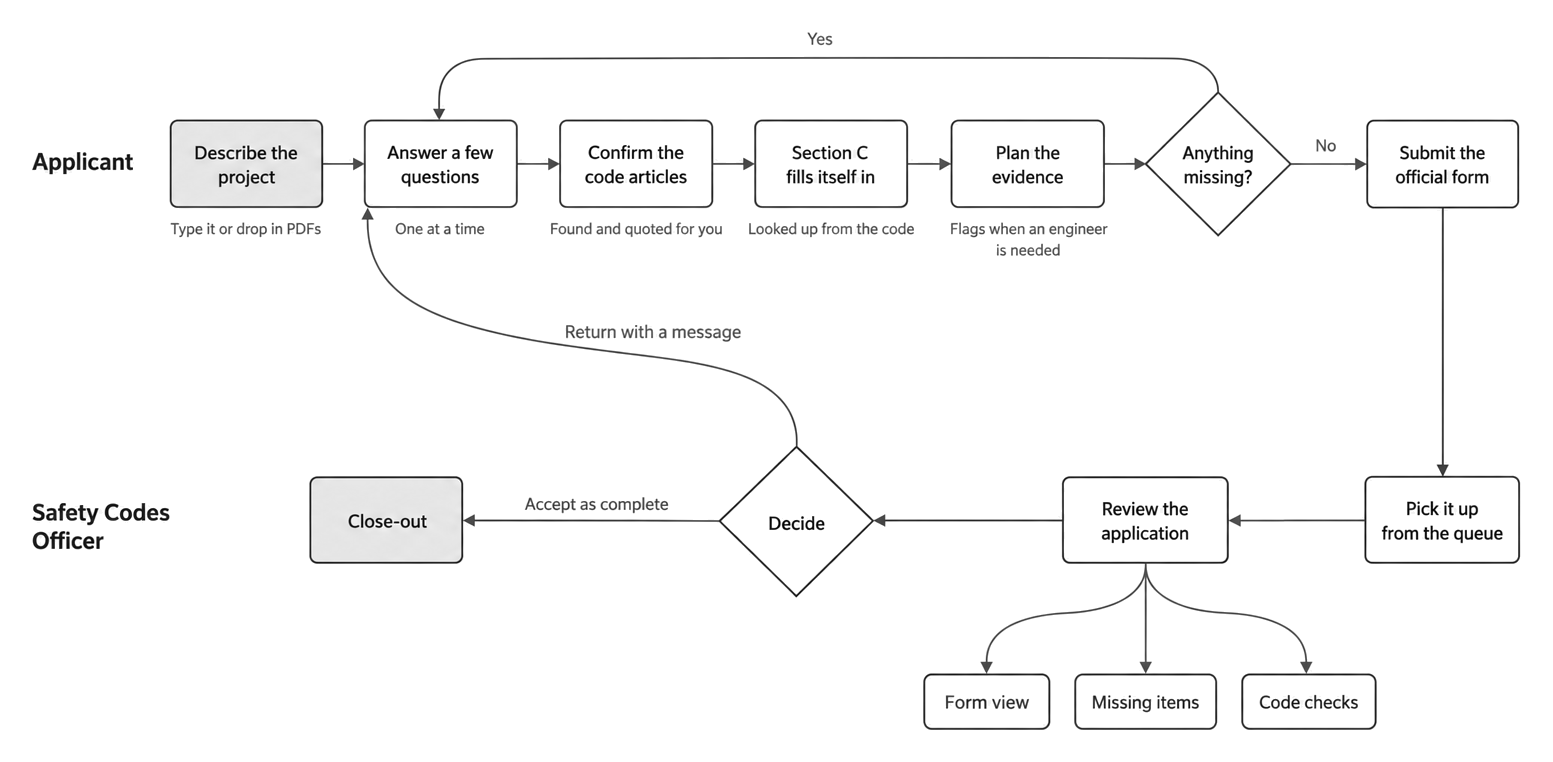
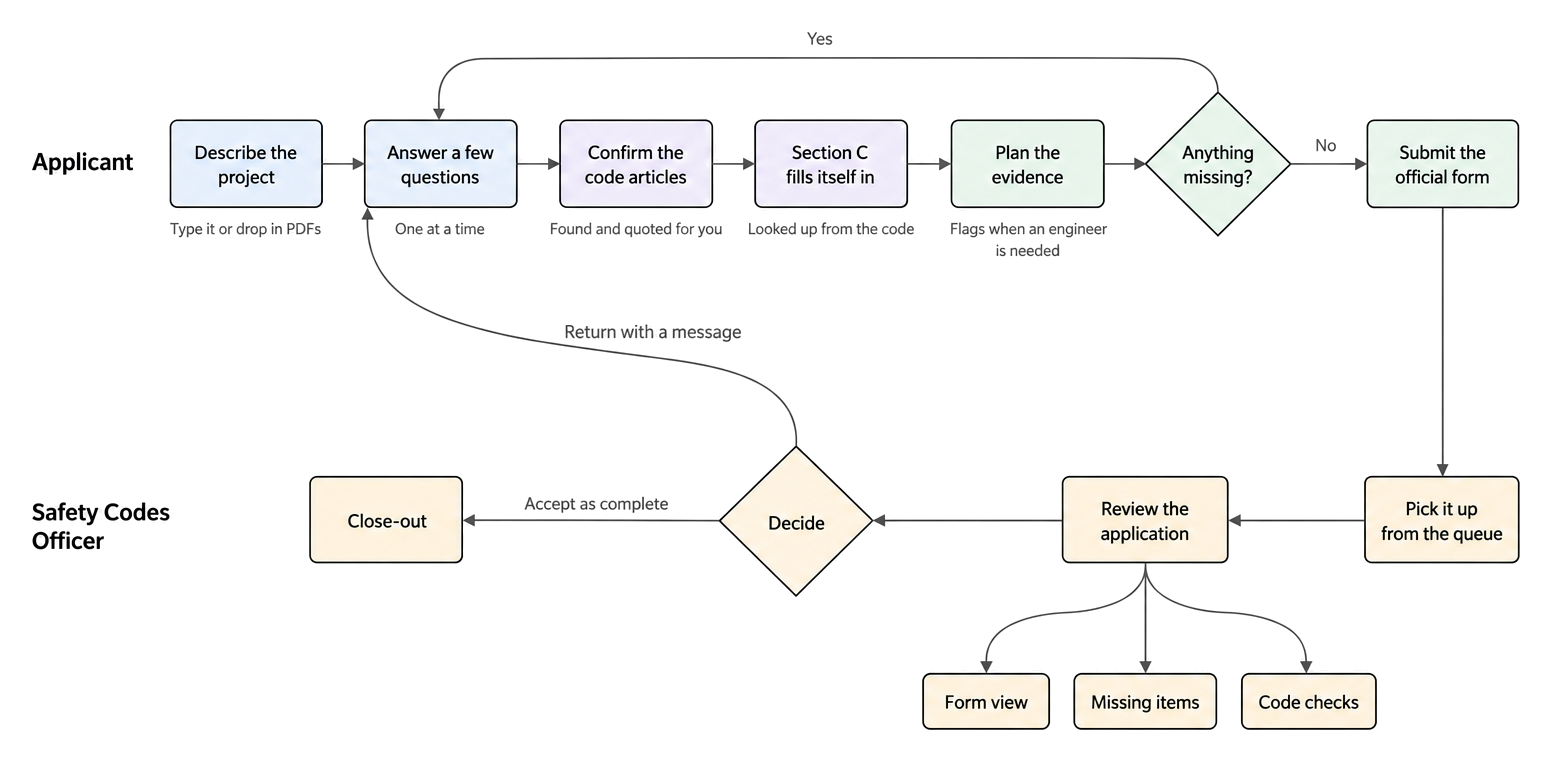
Make the README easier to follow and match its two workflow diagrams
The problem section now explains building codes and variances in plain
words, with a one-staircase example that cites Sentence 3.4.2.1.(1).
The technical diagram now has the same steps and layout as the
solution diagram, with the technology under each step, and both use
the same four faint stage colors. The folder structure gains a
frontend tree next to the backend one.

Get started now opens with an agent setup prompt and an agent
pull-request prompt, explains why npm run dev alone is not enough, and
sends contributions as pull requests from a fork's dev. The agent rules
say that GitHub only ever has main and dev.

diff --git a/README.md b/README.md
@@ -6,7 +6,22 @@ Batatis helps builders in Alberta prepare a complete building-code variance appl
 
 ## The problem
 
-The building code describes a standard way to build each part of a building. A builder who wants to use a new product or method applies for a variance. The application must show, with code references and evidence, that the design performs at least as well as the standard way.
+Every new building in Alberta has to follow the building code. The code is a set of safety rules that tell builders how to build, so that buildings don't collapse, catch fire easily, or trap people inside.
+
+Sometimes a builder wants to build something the rules don't describe, such as a new product or a different design. They can still ask to build it, but first they must apply for a variance. A variance is permission to meet a rule's purpose in a different way, and the builder has to prove that the different way is at least as safe.
+
+Here is an example. The code requires at least two exits from every floor of a larger building, so people can still get out if fire or smoke blocks one staircase. Say you design a four-storey apartment building with only one staircase. To build it, you file a variance application. It has to show six things:
+
+| The application shows | In the staircase example |
+| --- | --- |
+| Which rule you aren't following, and what the rule is for (code analysis) | Sentence 3.4.2.1.(1) of the National Building Code, 2023 Alberta Edition, requires two exits so that people can escape, and firefighters can get in, when one exit is blocked |
+| Why you want a different design (rationale) | One staircase leaves room for more homes on a small lot |
+| What could go wrong (risk assessment) | Smoke fills the only staircase |
+| What you add to keep people as safe (mitigating measures) | Sprinklers throughout, and a staircase built to keep smoke out |
+| What your plan depends on (assumptions and limits) | The sprinklers are maintained and always working |
+| Proof (supporting evidence) | A fire engineer's report showing that everyone can get out in time |
+
+A Safety Codes Officer then reviews the application and decides.
 
 According to the challenge organizers, most first submissions fail because they are incomplete. The officer sends the application back, the builder fixes it, and each round adds weeks.
 
@@ -104,16 +119,26 @@ For both:
 
 ## How Batatis works
 
-![The web app calls the engine, which reads the project, finds code articles with Elephant 1 and GPT, looks up Section C in CodeDB, checks for missing items, and fills the official form](docs/readme/deep-dive.png)
+![The same workflow as Our solution, with the technology under each step](docs/readme/how-it-works.png)
 
-The web app is React and TypeScript, built with Vite. It calls the engine, a Python API built with FastAPI. Vercel hosts both.
+This diagram has the same steps as the one in [Our solution](#our-solution), with the technology that runs each step. The colors mark the same four stages in both diagrams. The website is React and TypeScript, built with Vite. It calls the engine, a Python API built with FastAPI. Vercel hosts both.
 
-1. **Read the project.** Rules pull facts, such as the owner and the address, from the description and the PDFs. If AI is on, GPT points at more facts, and each one must quote the applicant's own words.
-2. **Find the code articles.** Elephant 1 scores all 2,080 articles in Division B of the code and reranks the top 60. Elephant 1 is a model hosted on Baseten, and Batatis reaches it through OpenRouter. GPT then reads the top 15 in full and quotes the sentences that apply. The applicant confirms each article. With AI off, a keyword search suggests articles instead.
-3. **Look up Section C.** The objectives, functions, and intent of each confirmed article come from the code's own tables in CodeDB. No AI is involved.
-4. **Find missing items.** Rules check every required part of the form and build the Section D evidence plan. No AI is involved.
-5. **Fill the official PDF form.** The engine fills in the Council's variance form and adds an appendix with the full code text.
-6. **Officer review.** Officers claim, review, and decide on applications in the same app.
+For applicants:
+
+1. **Describe the project.** Rules read facts, such as the owner and the address, from the description and from the text and fields of any PDFs. If AI is on, GPT points at more facts, and each one must quote the applicant's own words.
+2. **Answer a few questions.** A rule-based planner picks up to five questions. It starts with conflicts in what you wrote, then facts that narrow down the code articles. The website then shows one card for each item that is still open. No AI writes the questions.
+3. **Confirm the code articles.** Elephant 1 scores all 2,080 articles in Division B of the code and reranks the top 60. Elephant 1 is a model hosted on Baseten, and Batatis reaches it through OpenRouter. GPT then reads the top 15 in full and quotes the sentences that apply. You confirm each article. With AI off, a keyword search over CodeDB suggests articles instead.
+4. **Section C fills itself in.** The objectives, functions, and intent of each confirmed article come from the code's own tables in CodeDB. No AI is involved.
+5. **Plan the evidence.** Rules match each article to the kinds of evidence it needs, and flag when an engineer or another professional is required. No AI is involved.
+6. **Anything missing?** Completeness rules check every required part of Sections A to D. Anything missing sends you back to the questions.
+7. **Submit the official form.** The engine fills in the Council's variance form, adds an appendix with the full code text, and saves the exact version you sent.
+
+For Safety Codes Officers:
+
+8. **Pick it up from the queue.** The queue lists submitted applications. Claiming one stops two officers from reviewing it at the same time.
+9. **Review the application.** The officer sees the filled form, the same completeness checks, and the code citations checked against CodeDB.
+10. **Decide.** Returning the application sends the applicant a message, and they fix it and resubmit. Accepting it marks it as administratively complete.
+11. **Close-out.** The engine builds the decision's record package for the Council.
 
 CodeDB is a SQLite database of the building code. You build it on your computer from the official PDFs of the National Building Code, 2023 Alberta Edition, second printing. Applications and accounts live in SQLite on your computer, or in PostgreSQL on Neon when the app is hosted. The assistant answers with GPT. Voice uses Grok from xAI.
 
@@ -128,11 +153,64 @@ At measured source `d479e82`, the shipped facts-only `rules_plus_unknown` agreed
 
 ## Folder structure
 
-![The main folders and files: web, engine, codedb, scripts, docs, evals, agent skills, and the root files](docs/readme/folder-structure.png)
+The repository and the backend:
 
-The diagram shows the main folders and files, not every one.
+![The main folders and backend files: engine, codedb, scripts, docs, evals, agent skills, and the root files](docs/readme/folder-structure-backend.png)
+
+The frontend, meaning the files that build the screens and their look:
+
+![The frontend files: the web app's entry, the screens in web/src/calm, and the design rules and tokens in docs](docs/readme/folder-structure-frontend.png)
+
+Both pictures show the main folders and files, not every one.
 
 ## Get started
+
+### Set it up with an AI agent
+
+Open an AI coding agent, such as Claude Code, Codex, or Cursor, in an empty folder, and paste this prompt:
+
+```text
+Set up the Batatis app on this computer so I can run it locally.
+
+1. Unless this folder is already a clone, clone https://github.com/simplythatguy/batatis.git
+   with --branch dev. Then run scripts/install-git-hooks.sh.
+2. Check for Git, Python 3.12, and Node.js 22.12 or newer. Install only what is missing. On
+   macOS, use Homebrew.
+3. Create .venv with Python 3.12. Install engine/requirements.txt, codedb/requirements.txt,
+   and research/precedents/requirements.txt into it. Then run npm ci --prefix web.
+4. Build the code database. Run .venv/bin/pip install 'fonttools>=4.39', then
+   .venv/bin/python scripts/fetch_sources.py, then .venv/bin/python -m codedb build.
+5. If .env does not exist, copy .env.example to .env. Leave the API keys empty. I will add
+   my own.
+6. Start the app with scripts/local-app.sh start, and check that http://localhost:3000
+   loads. Use only ports 3000 and 8000. If a port is busy, stop and tell me.
+7. Do not commit, push, or create branches. When you finish, tell me what you installed and
+   anything that failed.
+```
+
+### Open a pull request with an AI agent
+
+When your change is ready, paste this prompt into the same agent. Replace `YOUR-USERNAME` with your GitHub username.
+
+```text
+Open a pull request with my change to github.com/simplythatguy/batatis.
+
+1. Read AGENTS.md and the skills it names before you change any code.
+2. Work on the dev branch. Do not create a new branch, on this computer or on GitHub.
+3. If the origin remote points at simplythatguy/batatis, make my fork the origin remote:
+   gh repo fork simplythatguy/batatis --remote
+4. Run scripts/verify.sh and fix anything that fails.
+5. Commit the change and push it to my fork:
+   git push origin dev
+6. Open the pull request:
+   gh pr create --repo simplythatguy/batatis --base dev --head YOUR-USERNAME:dev
+7. Stop there. Never push to, merge into, or delete dev or main on simplythatguy/batatis.
+   Do not run scripts/land.sh, and do not merge the pull request.
+```
+
+### Set it up by hand
+
+If you'd rather not use an agent, follow steps 1 to 6.
 
 ### 1. Clone the repository
 
@@ -312,11 +390,33 @@ To stop the app:
 scripts/local-app.sh stop
 ```
 
+#### Why `npm run dev` isn't enough
+
+Batatis has two parts: the website, and the engine, a Python server that saves applications and runs the checks. `npm run dev` starts only the website, which can't load anything without the engine. `scripts/local-app.sh start` runs `npm run dev` for the website on port 3000 and starts the engine on port 8000.
+
+To run the two parts yourself instead, start the engine in one terminal:
+
+```bash
+.venv/bin/python -m uvicorn engine.api:app --env-file .env --port 8000
+```
+
+Then start the website in a second terminal:
+
+```bash
+npm run dev --prefix web
+```
+
 ### Make a pull request
 
-Pull requests go to the `dev` branch, never to `main`. The project owner releases by merging `dev` into `main`.
+Pull requests go to the `dev` branch, never to `main`. They come from the `dev` branch of your fork, so you never create a new branch.
 
-Work on `dev` in your fork. When your change is ready, run every check:
+If you cloned this repository instead of your fork, make your fork the `origin` remote first:
+
+```bash
+gh repo fork simplythatguy/batatis --remote
+```
+
+Work on `dev`. When your change is ready, run every check:
 
 ```bash
 scripts/verify.sh
@@ -387,7 +487,8 @@ These rules always apply:
 - On the alternative-solution path, keep the risk assessment, mitigating measures, and assumptions.
 - Cite the National Building Code, 2023 Alberta Edition, second printing, first.
 - Keep AI provider names out of everything the app shows. Tests enforce this.
-- Run `scripts/verify.sh` before work lands. Only `scripts/land.sh` pushes, and only to `dev`. Never push to `main`.
+- GitHub only ever has two branches, `main` and `dev`. Never create, push, or leave any other branch there.
+- Contribute through a pull request from your fork's `dev` branch into `dev`, after `scripts/verify.sh` passes. Never push to, merge into, or delete `dev` or `main`.
 - Run the app with `scripts/local-app.sh`, on ports 3000 and 8000 only.
 - Subagents report only in their own task output. They never message other threads or agents.
 
